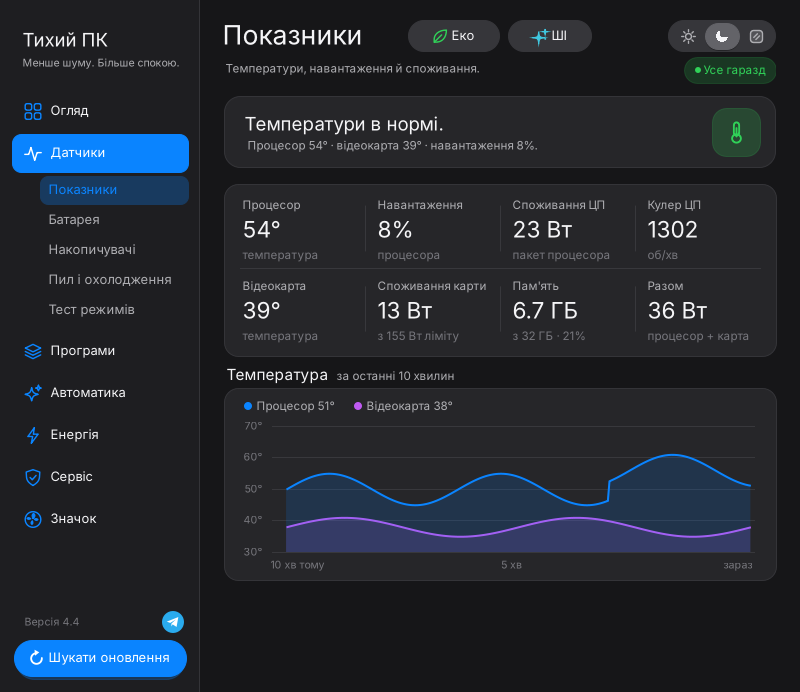
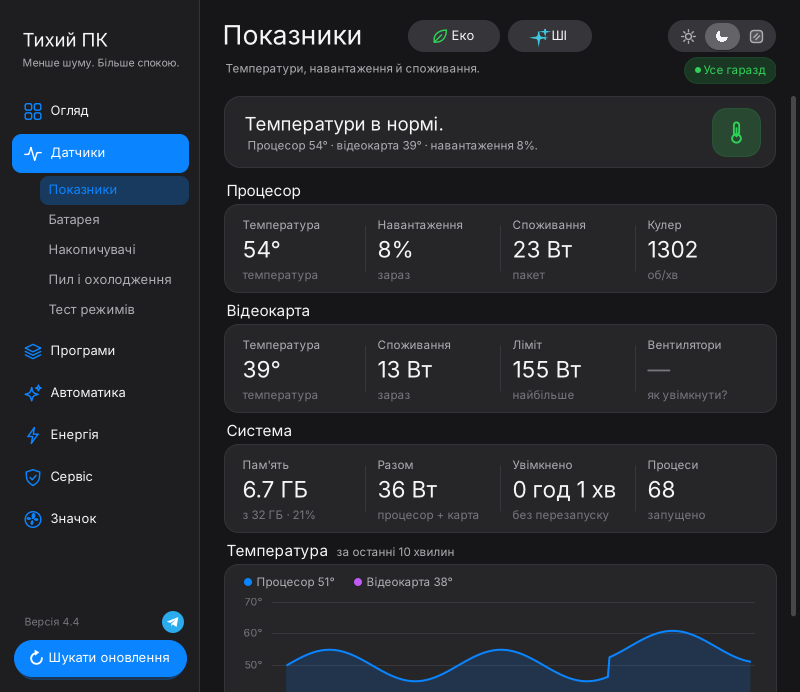
4.4: «Показники» по картках
Claude-Session: https://claude.ai/code/session_01SfcRwrkwGvgeaTNGhf47q9

diff --git a/src/MainForm.Parts.cs b/src/MainForm.Parts.cs
@@ -660,6 +660,8 @@ namespace TyhyiPK
             if (changed) EvaluateAuto();
         }
 
+        [System.Runtime.InteropServices.DllImport("kernel32.dll")] static extern ulong GetTickCount64();
+
         static double TotalW(Snapshot s)
         {
             if (s == null) return 0;
@@ -690,14 +692,26 @@ namespace TyhyiPK
             else mCpuPow.Set("—", Ui.Ink3, Lhm.Loaded ? "немає датчика" : "як увімкнути?", !Lhm.Loaded);
             if (!double.IsNaN(s.GpuDraw)) mGpuPow.Set(Watts(s.GpuDraw), null, "зараз", false);
             else mGpuPow.Set("—", Ui.Ink3, Gpu.Smi != null ? "" : "немає даних", false);
-            if (!double.IsNaN(s.GpuLimit)) mGpuLim.Set(Watts(s.GpuLimit), null, "найбільше", false);
-            else mGpuLim.Set("—", Ui.Ink3, "немає даних", false);
-            if (!double.IsNaN(s.GpuFanRpm)) mGpuFan.Set(Math.Round(s.GpuFanRpm).ToString(), null, s.GpuFansForced ? "об/хв · примусово" : "об/хв", false);
-            else if (!double.IsNaN(s.GpuFanPct)) mGpuFan.Set(Math.Round(s.GpuFanPct) + "%", null, "швидкість", false);
-            else mGpuFan.Set("—", Ui.Ink3, Lhm.Loaded ? "немає датчика" : "як увімкнути?", false);
+            foreach (var t in new[] { mGpuLim, sGpuLim })
+            {
+                if (!double.IsNaN(s.GpuLimit)) t.Set(Watts(s.GpuLimit), null, "найбільше", false);
+                else t.Set("—", Ui.Ink3, "немає даних", false);
+            }
+            foreach (var t in new[] { mGpuFan, sGpuFan })
+            {
+                if (!double.IsNaN(s.GpuFanRpm)) t.Set(Math.Round(s.GpuFanRpm).ToString(), null, s.GpuFansForced ? "об/хв · примусово" : "об/хв", false);
+                else if (!double.IsNaN(s.GpuFanPct)) t.Set(Math.Round(s.GpuFanPct) + "%", null, "швидкість", false);
+                else t.Set("—", Ui.Ink3, Lhm.Loaded ? "немає датчика" : "як увімкнути?", false);
+            }
+            if (pageSensors.Visible)
+            {
+                TimeSpan up; try { up = TimeSpan.FromMilliseconds(GetTickCount64()); } catch { up = TimeSpan.FromMilliseconds(Environment.TickCount & int.MaxValue); }
+                sUptime.Set(up.TotalHours >= 24 ? (int)up.TotalDays + " д " + up.Hours + " год" : (int)up.TotalHours + " год " + up.Minutes + " хв", null, "без перезапуску", false);
+                try { sProcs.Set(System.Diagnostics.Process.GetProcesses().Length.ToString(), null, "запущено", false); } catch { }
+            }
             if (s.CpuLoad >= 0)
-                sCpuLoad.Set(s.CpuLoad + "%", s.CpuLoad >= 90 ? Ui.Orange : (Color?)null, "процесора", false);
-            if (!double.IsNaN(s.CpuPower)) sCpuPower.Set(Watts(s.CpuPower), null, "пакет процесора", false);
+                sCpuLoad.Set(s.CpuLoad + "%", s.CpuLoad >= 90 ? Ui.Orange : (Color?)null, "зараз", false);
+            if (!double.IsNaN(s.CpuPower)) sCpuPower.Set(Watts(s.CpuPower), null, "пакет", false);
             else sCpuPower.Set("—", Ui.Ink3, Lhm.Loaded ? "немає датчика" : "як увімкнути?", !Lhm.Loaded);
             foreach (var t in new[] { mFan, sFan })
             {
@@ -710,7 +724,7 @@ namespace TyhyiPK
                 else t.Set("—", Ui.Ink3, Gpu.Smi != null ? "" : "немає даних", false);
             }
             if (!double.IsNaN(s.GpuDraw))
-                sGpuPower.Set(Watts(s.GpuDraw), null, !double.IsNaN(s.GpuLimit) ? "з " + Watts(s.GpuLimit) + " ліміту" : "", false);
+                sGpuPower.Set(Watts(s.GpuDraw), null, "зараз", false);
             else
                 sGpuPower.Set("—", Ui.Ink3, Gpu.Smi != null ? "" : "немає даних", false);
             if (!double.IsNaN(s.MemTotal) && s.MemTotal > 0)

diff --git a/src/MainForm.cs b/src/MainForm.cs
@@ -52,7 +52,7 @@ namespace TyhyiPK
         readonly HeroCard hero;
         readonly Label lblStatus;
         readonly StatTile mCpuTemp, mCpuLoad, mCpuPow, mFan, mGpuTemp, mGpuPow, mGpuLim, mGpuFan;
-        readonly StatTile sCpuTemp, sCpuLoad, sCpuPower, sFan, sGpuTemp, sGpuPower, sMem, sTotal;
+        readonly StatTile sCpuTemp, sCpuLoad, sCpuPower, sFan, sGpuTemp, sGpuPower, sGpuLim, sGpuFan, sMem, sTotal, sUptime, sProcs;
         readonly TempChart chart;
         readonly ProcList procList;
         readonly Toggle tgGame, tgAi, tgNight, tgBattery, tgHeat, tgAutorun;
@@ -187,21 +187,30 @@ namespace TyhyiPK
             BuildRow(gpu, 440);
 
             // ── Датчики ──
-            pageSensors.Cards.Add(Ui.R(24, 8, 552, 172));
-            pageSensors.Lines.Add(Ui.R(40, 92, 520, 0));
-            sCpuTemp = Tile(pageSensors, 0, 12, 80, "Процесор");
-            sCpuLoad = Tile(pageSensors, 1, 12, 80, "Навантаження");
-            sCpuPower = Tile(pageSensors, 2, 12, 80, "Споживання ЦП");
-            sFan = Tile(pageSensors, 3, 12, 80, "Кулер ЦП");
-            sGpuTemp = Tile(pageSensors, 0, 93, 79, "Відеокарта");
-            sGpuPower = Tile(pageSensors, 1, 93, 79, "Споживання карти");
-            sMem = Tile(pageSensors, 2, 93, 79, "Пам'ять");
-            sTotal = Tile(pageSensors, 3, 93, 79, "Разом");
-            pageSensors.SetCaption("chart", Ui.R(40, 192, 520, 18), "Температура|за останні 10 хвилин");
-            pageSensors.Cards.Add(Ui.R(24, 212, 552, 192));
+            // Окремі картки для процесора, відеокарти й системи — як на «Огляді».
+            pageSensors.SetCaption("scpu", Ui.R(40, 8, 520, 18), "Процесор");
+            pageSensors.Cards.Add(Ui.R(24, 28, 552, 88));
+            sCpuTemp = Tile(pageSensors, 0, 32, 80, "Температура");
+            sCpuLoad = Tile(pageSensors, 1, 32, 80, "Навантаження");
+            sCpuPower = Tile(pageSensors, 2, 32, 80, "Споживання");
+            sFan = Tile(pageSensors, 3, 32, 80, "Кулер");
+            pageSensors.SetCaption("sgpu", Ui.R(40, 128, 520, 18), "Відеокарта" + (!string.IsNullOrEmpty(Gpu.Name) ? "|" + Gpu.Name : ""));
+            pageSensors.Cards.Add(Ui.R(24, 148, 552, 88));
+            sGpuTemp = Tile(pageSensors, 0, 152, 80, "Температура");
+            sGpuPower = Tile(pageSensors, 1, 152, 80, "Споживання");
+            sGpuLim = Tile(pageSensors, 2, 152, 80, "Ліміт");
+            sGpuFan = Tile(pageSensors, 3, 152, 80, "Вентилятори");
+            pageSensors.SetCaption("ssys", Ui.R(40, 248, 520, 18), "Система");
+            pageSensors.Cards.Add(Ui.R(24, 268, 552, 88));
+            sMem = Tile(pageSensors, 0, 272, 80, "Пам'ять");
+            sTotal = Tile(pageSensors, 1, 272, 80, "Разом");
+            sUptime = Tile(pageSensors, 2, 272, 80, "Увімкнено");
+            sProcs = Tile(pageSensors, 3, 272, 80, "Процеси");
+            pageSensors.SetCaption("chart", Ui.R(40, 368, 520, 18), "Температура|за останні 10 хвилин");
+            pageSensors.Cards.Add(Ui.R(24, 388, 552, 192));
             chart = new TempChart();
             chart.Data = history;
-            chart.Bounds = Ui.R(32, 216, 536, 184);
+            chart.Bounds = Ui.R(32, 392, 536, 184);
             pageSensors.Controls.Add(chart);
             foreach (var t in new[] { mCpuTemp, sCpuTemp }) t.SubClicked += (s, e) => ShowTempHelp();
             foreach (var t in new[] { mFan, sFan, sCpuPower, mCpuPow }) t.SubClicked += (s, e) => ShowTempHelp();

diff --git a/CHANGES.md b/CHANGES.md
@@ -6,6 +6,7 @@
 - Кнопка «Еко» посередині над сторінкою — коли вимкнули світло. Процесор до 50% без прискорення, відеокарта на найменшому ліміті, екран ноутбука тьмяніший і гасне через 3 хвилини, а сама програма рідше опитує датчики. Вимикаєш — усе повертається як було.
 - Поруч з «Еко» — кнопка «ШІ» з іскорками: одним натиском відеокарта на 90% і примусові вентилятори для локальних моделей. З рядка режимів відеокарти «ШІ» прибрано, щоб не дублювати.
 - На «Огляді» показники тепер окремо для процесора й відеокарти — прямо над їхніми режимами: температура, навантаження, споживання, кулер, ліміт і вентилятори карти.
+- «Показники» теж розкладені по картках: «Процесор», «Відеокарта» (з лімітом і вентиляторами) і «Система» — пам'ять, загальне споживання, скільки ПК працює без перезапуску й скільки запущено процесів.
 - У темі «Скло» вибраний режим зафарбований своїм кольором з білим текстом — читається краще.
 - У темі «Скло» поля для чисел (тариф, решта ПК) більше не виглядають темними прямокутниками всередині плашки.
 
